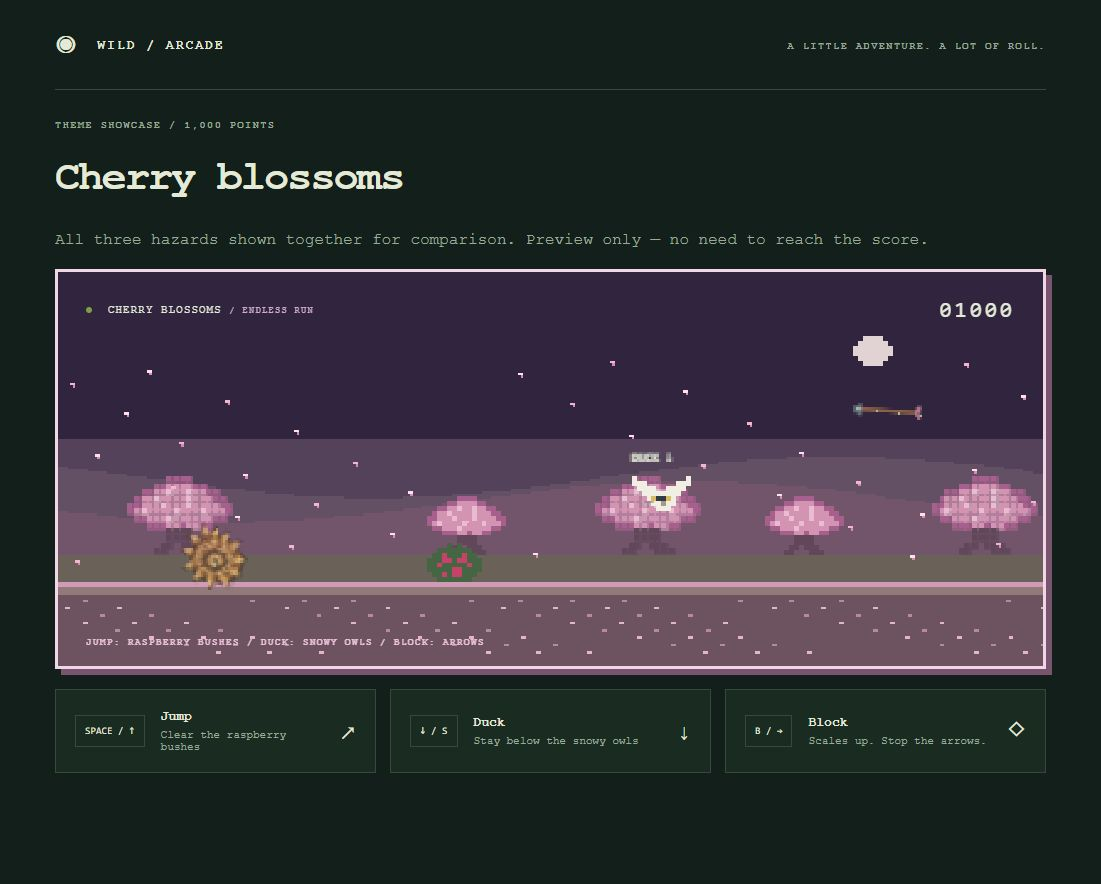
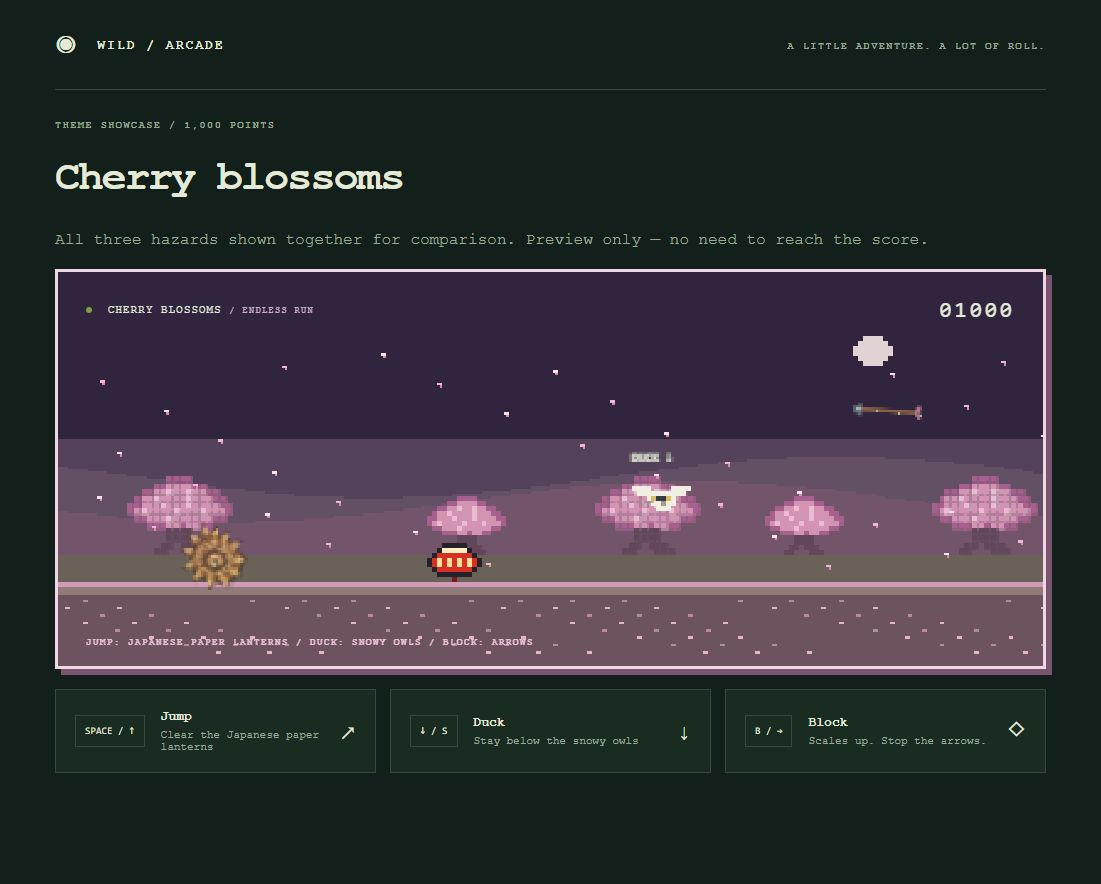
Refresh cherry blossom showcase screenshot with paper lantern

diff --git a/README.md b/README.md
@@ -66,9 +66,7 @@ Thorn bushes, eagles and spears.
 
 Japanese paper lanterns, snowy owls and arrows.
 
-The ground hazard is a red Japanese paper lantern with a dark outline and warm cream ribs for contrast against pink scenery. Jump over it; snowy owls and arrows keep their existing controls.
-
-![Japanese paper lantern artwork](docs/screenshots/paper-lantern.svg)
+![Cherry blossom showcase with Japanese paper lantern, snowy owl and arrow](docs/screenshots/cherry-blossoms.jpg)
 
 ### Galaxy
 
